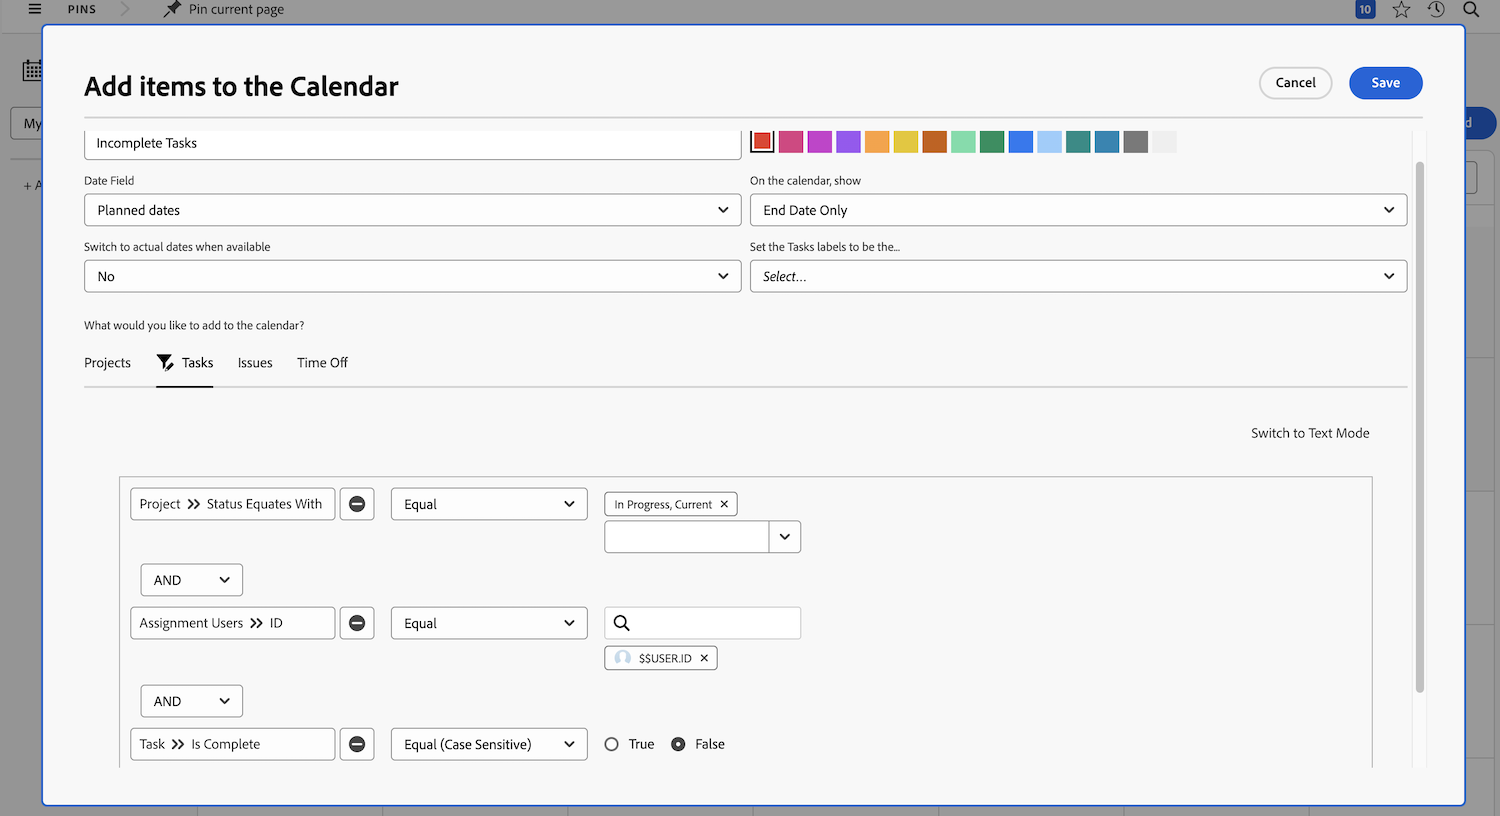
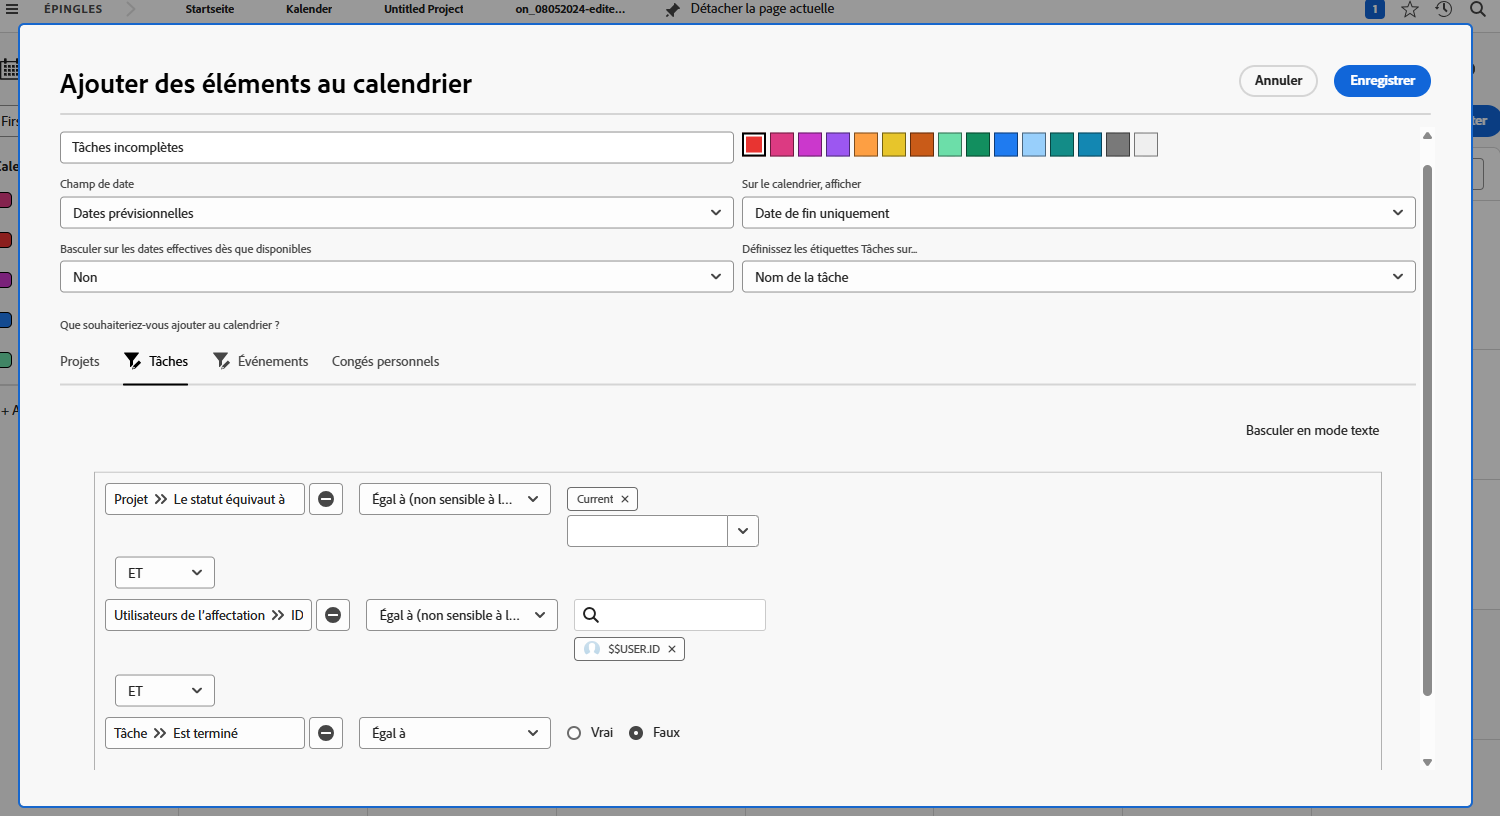
Updated by task 'AUTO_HANDOFF_1750705037931' Changes for core/source commit https://git.corp.adobe.com/AdobeDocs/workfront-learn.en/commit/4c67e0a3263af6e2efe02cea8f4b0ee0cbdcd0c8

diff --git a/help/reporting/basic-reporting/your-turn-to-create-a-calendar.md b/help/reporting/basic-reporting/your-turn-to-create-a-calendar.md
@@ -12,9 +12,9 @@ thumbnail: your-turn-to-create-a-calendar.png
 jira: KT-10026
 exl-id: 74d57f1a-c6c5-49e0-9529-2e2deb2f273e
 source-git-commit: d041d5a8633acd576ffca3e2c7bbdba12be169bd
-workflow-type: tm+mt
+workflow-type: ht
 source-wordcount: '379'
-ht-degree: 89%
+ht-degree: 100%
 
 ---
 
@@ -42,7 +42,7 @@ Incluez un autre groupe de calendriers nommé « Problèmes non résolus » mo
 1. Remplacez le champ Date par Dates planifiées.
 1. Définissez le champ Sur le calendrier, afficher sur Date de fin uniquement.
 1. Définissez le champ Passer aux dates réelles lorsque le champ est disponible sur Non.
-1. Dans la section Que souhaitez-vous ajouter au calendrier ? , sélectionnez Tâches. Cliquez ensuite sur le bouton Ajouter des tâches .
+1. Dans la section Que souhaitez-vous ajouter au calendrier ? sélectionnez Tâches. Cliquez ensuite sur le bouton Ajouter des tâches.
 1. Ajoutez trois règles de filtrage :
 
    * Projet > Statut est égal à > Égal à > Actuel
@@ -59,7 +59,7 @@ Incluez un autre groupe de calendriers nommé « Problèmes non résolus » mo
 1. Remplacez le champ Date par Dates planifiées.
 1. Définissez le champ Sur le calendrier, afficher sur Date de fin uniquement.
 1. Définissez le champ Passer aux dates réelles lorsque le champ est disponible sur Non.
-1. Dans la section Que souhaitez-vous ajouter au calendrier ? , sélectionnez Événements. Cliquez ensuite sur le bouton Ajouter des événements .
+1. Dans la section Que souhaitez-vous ajouter au calendrier ? sélectionnez Problèmes. Cliquez ensuite sur le bouton Ajouter des problèmes.
 1. Ajoutez les trois règles de filtrage suivantes :
 
    * Projet > Statut est égal à > Égal à > Actuel

diff --git a/help/reporting/basic-reporting/creating-custom-calendars.md b/help/reporting/basic-reporting/creating-custom-calendars.md
@@ -1,6 +1,6 @@
 ---
 title: Créer un rapport de calendrier personnalisé
-description: Découvrez comment créer un calendrier personnalisé affichant les tâches et les congés personnels.
+description: Découvrez comment créer un calendrier personnalisé avec vos éléments de travail et vos congés personnels.
 activity: use
 team: Technical Marketing
 feature: Reports and Dashboards
@@ -12,9 +12,9 @@ thumbnail: create-a-custom-calendar.png
 jira: KT-10024
 exl-id: d5c928f2-7989-401f-ad86-08fe971c9ff5
 source-git-commit: d041d5a8633acd576ffca3e2c7bbdba12be169bd
-workflow-type: tm+mt
+workflow-type: ht
 source-wordcount: '87'
-ht-degree: 83%
+ht-degree: 100%
 
 ---
 
@@ -34,5 +34,5 @@ Dans cette vidéo, vous apprendrez à :
 * Ajouter des tâches au groupe de calendriers
 * Créer un calendrier de congés
 
->[!VIDEO](https://video.tv.adobe.com/v/3452395/?quality=12&learn=on&enablevpops&captions=fre_fr)
+>[!VIDEO](https://video.tv.adobe.com/v/3423482/?quality=12&learn=on&enablevpops)
 

diff --git a/help/reporting/basic-reporting/tour-of-the-interface.md b/help/reporting/basic-reporting/tour-of-the-interface.md
@@ -12,7 +12,7 @@ thumbnail: understand-the-calendar-interface.png
 jira: KT-10025
 exl-id: dfe8e5b1-8b49-4a67-a64e-a20267813752
 source-git-commit: d041d5a8633acd576ffca3e2c7bbdba12be169bd
-workflow-type: tm+mt
+workflow-type: ht
 source-wordcount: '81'
 ht-degree: 100%
 
@@ -35,4 +35,4 @@ Dans cette vidéo, vous découvrirez :
 * Informations récapitulatives
 * Et comment créer un élément de calendrier ad hoc
 
->[!VIDEO](https://video.tv.adobe.com/v/3438760/?quality=12&learn=on&enablevpops&captions=fre_fr)
+>[!VIDEO](https://video.tv.adobe.com/v/3423318/?quality=12&learn=on&enablevpops)

diff --git a/help/reporting/basic-reporting/additional-calendar-options.md b/help/reporting/basic-reporting/additional-calendar-options.md
@@ -12,7 +12,7 @@ thumbnail: understand-additional-calendar-options.png
 jira: KT-10023
 exl-id: 329e8288-d2ec-4350-8374-59aa47241ef8
 source-git-commit: d041d5a8633acd576ffca3e2c7bbdba12be169bd
-workflow-type: tm+mt
+workflow-type: ht
 source-wordcount: '80'
 ht-degree: 100%
 
@@ -35,4 +35,4 @@ Dans cette vidéo, vous apprendrez à :
 * Partager un calendrier
 * Supprimer un calendrier
 
->[!VIDEO](https://video.tv.adobe.com/v/3445058/?quality=12&learn=on&enablevpops&captions=fre_fr)
+>[!VIDEO](https://video.tv.adobe.com/v/3423530/?quality=12&learn=on&enablevpops)
